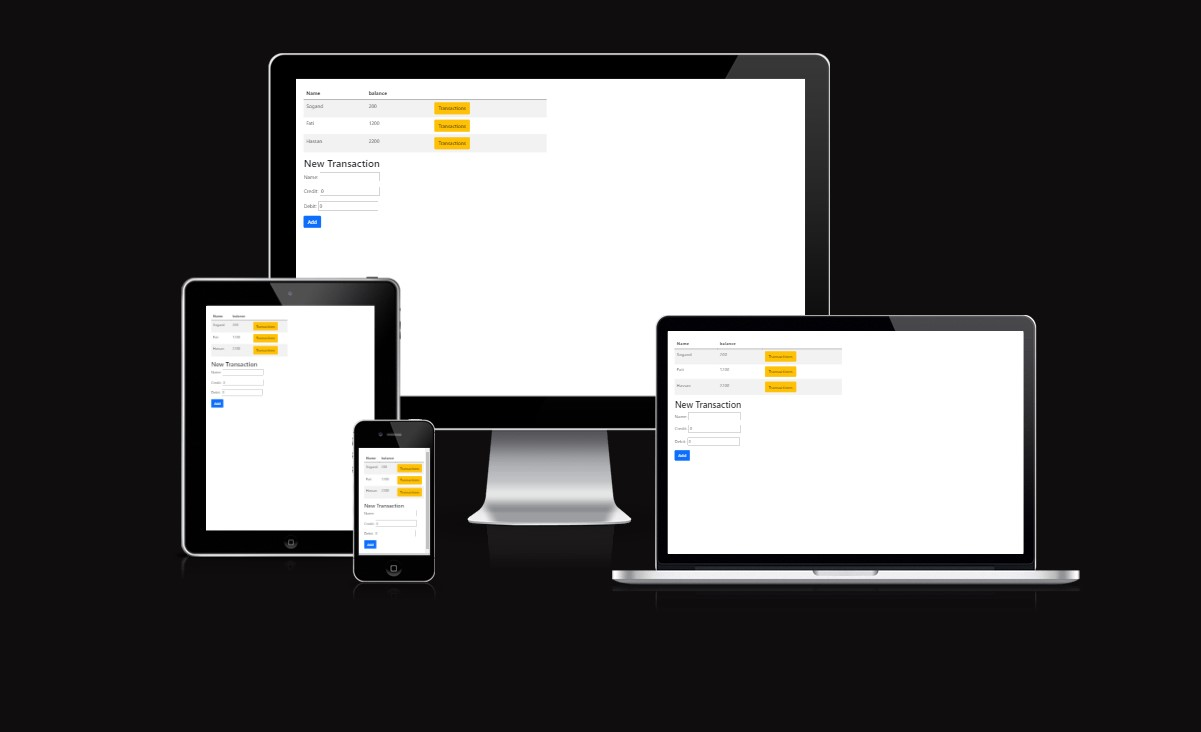
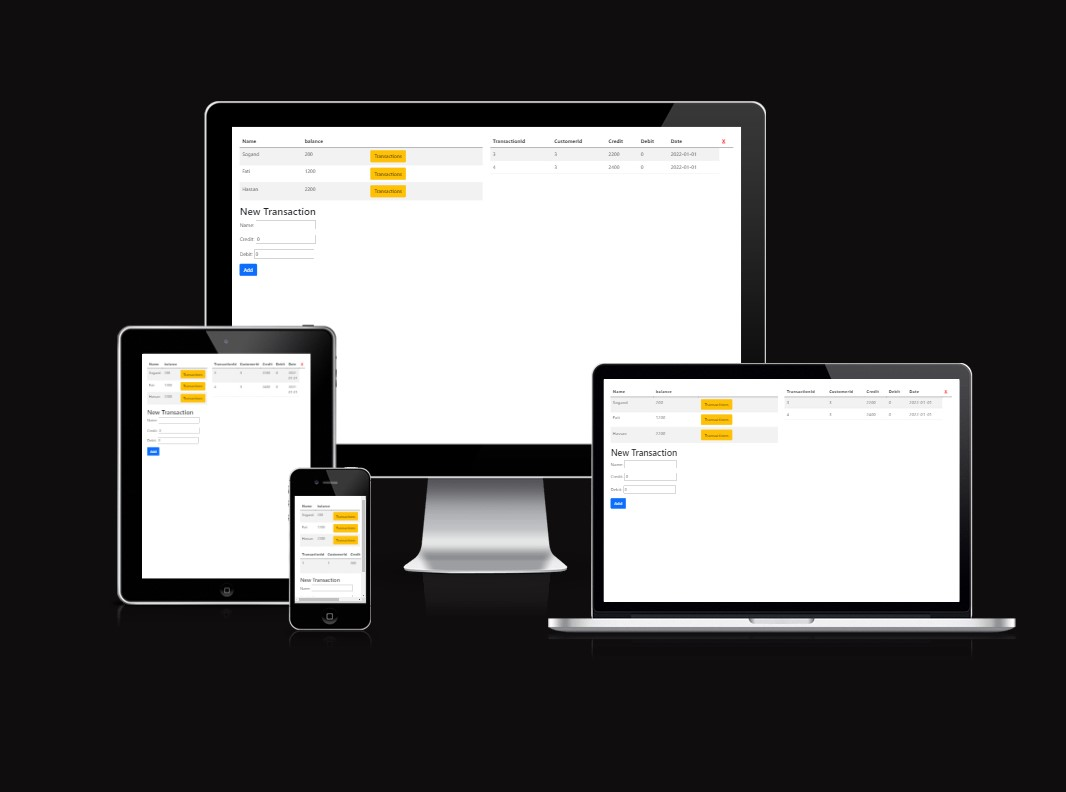
fixed responsive,

Changed region(s): [[0.0929, 0.0601, 0.9597, 0.8115]]

diff --git a/test.js b/test.js
@@ -1,0 +1,136 @@
+// Wait for the DOM to finish loading before running the game
+// Get the button elements and add event listeners to them
+
+document.addEventListener("DOMContentLoaded", function () {
+  let buttons = document.getElementsByTagName("button");
+
+  for (let button of buttons) {
+    button.addEventListener("onclick", function () {
+      if (this.getAttribute("data-type") === "submit") {
+        checkAnswer();
+      } else {
+        let gameType = this.getAttribute("data-type");
+        runGame(gameType);
+      }
+    });
+  }
+
+  document
+    .getElementById("answer-box")
+    .addEventListener("keydown", function (event) {
+      if (event.key === "Enter") {
+        checkAnswer();
+      }
+    });
+
+  runGame("addition");
+});
+
+function runGame(gameType) {
+  // Generate two random numbers between 1 and 25
+  // Math.floor rounds down to the whole number
+  // Math.random generates random numbers
+
+  document.getElementById("answer-box").value = "";
+  document.getElementById("answer-box").focus();
+
+  let num1 = Math.floor(Math.random() * 25) + 1;
+  let num2 = Math.floor(Math.random() * 25) + 1;
+
+  if (gameType === "addition") {
+    displayAdditionQuestion(num1, num2);
+  } else if (gameType === "multiply") {
+    displayMultiplyQuestion(num1, num2);
+  } else if (gameType === "division") {
+    displayDivisionQuestion(num1, num2);
+  } else if (gameType === "subtract") {
+    displaySubtractQuestion(num1, num2);
+  } else {
+    alert(`Unknown game type ${gameType}`);
+    throw `Unknown game type ${gameType}, aborting!`;
+  }
+}
+
+function checkAnswer() {
+  // Checks the answer against the first element in
+  // the returned calculateCorrectAnswer array
+
+  let userAnswer = parseInt(document.getElementById("answer-box").value);
+  let calculatedAnswer = calculateCorrectAnswer();
+  let isCorrect = userAnswer === calculatedAnswer[0];
+
+  if (isCorrect) {
+    alert("Hey! You got it right! :D");
+    incrementScore();
+  } else {
+    alert(
+      `Awwww...you answered ${userAnswer}. The correct answer was ${calculatedAnswer[0]}!`,
+    );
+    incrementWrongAnswer();
+  }
+
+  runGame(calculatedAnswer[1]);
+}
+
+function calculateCorrectAnswer() {
+  // Gets the operands (the numbers) and the operator (plus, minus etc)
+  // directly from the DOM
+
+  let operand1 = parseInt(document.getElementById("operand1").textContent);
+  let operand2 = parseInt(document.getElementById("operand2").textContent);
+  let operator = document.getElementById("operator").textContent;
+  console.log(operand1, operand2, operator);
+  if (operator === "+") {
+    return [operand1 + operand2, "addition"];
+  } else if (operator === "x") {
+    return [operand1 * operand2, "multiply"];
+  } else if (operator === "/") {
+    return [operand1 / operand2, "division"];
+  } else if (operator === "-") {
+    return [operand1 - operand2, "subtract"];
+  } else {
+    alert(`Unimplemented operator ${operator}`);
+    throw `Unimplemented operator ${operator}, aborting!`;
+  }
+}
+
+function incrementScore() {
+  // Gets the current score from the DOM and increments it
+
+  let oldScore = parseInt(document.getElementById("score").innerText);
+  document.getElementById("score").innerText = ++oldScore;
+}
+
+function incrementWrongAnswer() {
+  // Gets the current tally of incorrect answers from the DOM and increments it
+
+  let oldScore = parseInt(document.getElementById("incorrect").innerText);
+  document.getElementById("incorrect").innerText = ++oldScore;
+}
+
+function displayAdditionQuestion(operand1, operand2) {
+  document.getElementById("operand1").textContent = operand1;
+  document.getElementById("operand2").textContent = operand2;
+  document.getElementById("operator").textContent = "+";
+}
+
+function displaySubtractQuestion(operand1, operand2) {
+  document.getElementById("operand1").textContent =
+    operand1 > operand2 ? operand1 : operand2;
+  document.getElementById("operand2").textContent =
+    operand1 > operand2 ? operand2 : operand1;
+  document.getElementById("operator").textContent = "-";
+}
+
+function displayMultiplyQuestion(operand1, operand2) {
+  document.getElementById("operand1").textContent = operand1;
+  document.getElementById("operand2").textContent = operand2;
+  document.getElementById("operator").textContent = "x";
+}
+function displayDivisionQuestion(operand1, operand2) {
+  document.getElementById("operand1").textContent = operand1;
+  document.getElementById("operand2").textContent = operand2;
+  document.getElementById("operator").textContent = "/";
+}
+
+// Add your division question here

diff --git a/assets/css/style.css b/assets/css/style.css
@@ -1,60 +1,76 @@
-/*Meadia Queries for small devices 578*/
 
-@media screen and (min-width: 578px) {
-  .service {
-    display: flex;
-    flex-direction: row;
-    justify-content: space-evenly;
-    text-align: center;
-  }
-  .service p {
-    width: 15rem;
-    font-size: 1.1rem;
-  }
+/* --------- Media queries */
 
-  .hair-images {
-    width: 16em;
-    border-radius: 5rem;
-    margin-bottom: 2rem;
-  }
+@media (max-width: 414px) {
+    .controls-area {
+        width: 100%;
+    }
+
+    .btn--big {
+        margin: 0 10px;
+        padding: 5px;
+        border: 5px solid;
+        width: 50px;
+        height: 50px;
+        font-size: 1.5rem;
+    }
+
+    .btn--big::after {
+        font-size: 0.6rem;
+        left: -0.7rem;
+    }
+
+    .question-area {
+        padding: 10% 0;
+        width: 100%;
+    }
+
+    .question-area span {
+        padding: 0;
+    }
+
+    .answer-message {
+        display: block;
+    }
+
+    #answer-box {
+        display: block;
+        margin: 0 auto;
+    }
+    .btn--gray {
+        margin-top: 0;
+    }
+
+    .score-area {
+        width: 100%;
+    }
+
+    .scores {
+        margin: 0.5em auto;
+        display: block;
+        padding: 5px;
+    }
+
+    .heading {
+        font-size: 2rem;
+    }
 }
 
-/*Meadia Queries for tablet 768*/
-@media screen and (min-width: 768px) {
-  .service {
-    display: flex;
-    flex-direction: row;
-    justify-content: space-evenly;
-    text-align: center;
-  }
-  .service p {
-    width: 20rem;
-    font-size: 1.2rem;
-  }
+@media (max-width: 320px) {
+    .game-area {
+        height: 70vh;
+    }
 
-  .hair-images {
-    width: 18em;
-    border-radius: 5rem;
-    margin-bottom: 2rem;
-  }
-}
+    .controls-area {
+        width: 75%;
+        margin: 10px auto;
+    }
 
-/*Meadia Queries for desktop 1200*/
-@media screen and (min-width: 1200px) {
-  .service {
-    display: flex;
-    flex-direction: row;
-    justify-content: space-evenly;
-    text-align: center;
-  }
-  .service p {
-    width: 25rem;
-    font-size: 1.2rem;
-  }
+    .btn--big {
+        margin: 10px 10px;
+    }
+    .question-area {
+        padding: 10px 0;
+    }
 
-  .hair-images {
-    width: 22em;
-    border-radius: 5rem;
-    margin-bottom: 2rem;
-  }
 }

diff --git a/index.js b/index.js
@@ -26,7 +26,7 @@ function refresh() {
 function customerTransactions(customerId) {
   let filteredTrans = [...transactions].filter(filterTrans(customerId));
   console.log(transactions.length);
-  let tableStr = `<table class='table table-striped'><thead><tr><th>TransactionId</th><th>CustomerId</th><th>Credit</th><th>Debit</th><th>Date</th><th><a onClick='document.getElementById(
+  let tableStr = `<table class='table table-striped'><thead><tr style="font-size:small"><th>Transaction Id</th><th>Customer Id</th><th>Credit</th><th>Debit</th><th>Date</th><th><a onClick='document.getElementById(
     "transactions").innerHTML = ""' href='#' style="color:red">X</a></th></tr></thead><tbody>`;
   let innerHTML = "";
 

diff --git a/index.html b/index.html
@@ -17,9 +17,11 @@
       <div class="col">
         <table id="balancesTbl" class="table table-striped">
           <thead>
-            <th>Name</th>
-            <th>balance</th>
-            <th></th>
+            <tr>
+              <th>Name</th>
+              <th>balance</th>
+              <th></th>
+            </tr>
           </thead>
           <tbody id="balanceList"></tbody>
         </table>

diff --git a/README.md b/README.md
@@ -1,3 +1,9 @@
 # project-2
 
+## Book Keeping System
+
+Record keeping can help you to find the information you need. It promotes the creation of full and accurate records in the first place. It also involves storing and managing records appropriately so that the information will be available to you when you need it. I wrote a book keeping system using JS , HTML, CSS very simple and easy to use for everyone specifically for the users request.
+
+### Responsive
+
 ![Alt text](./assets/img/responsive-test.jpg)
